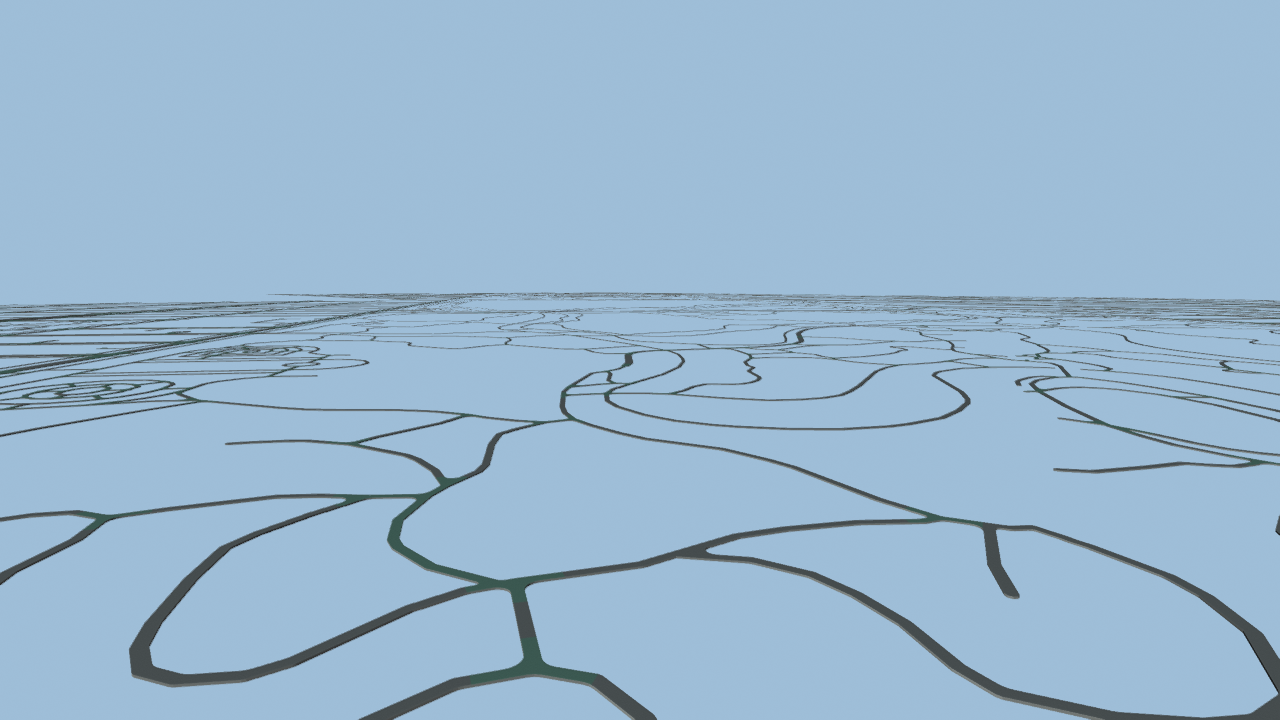
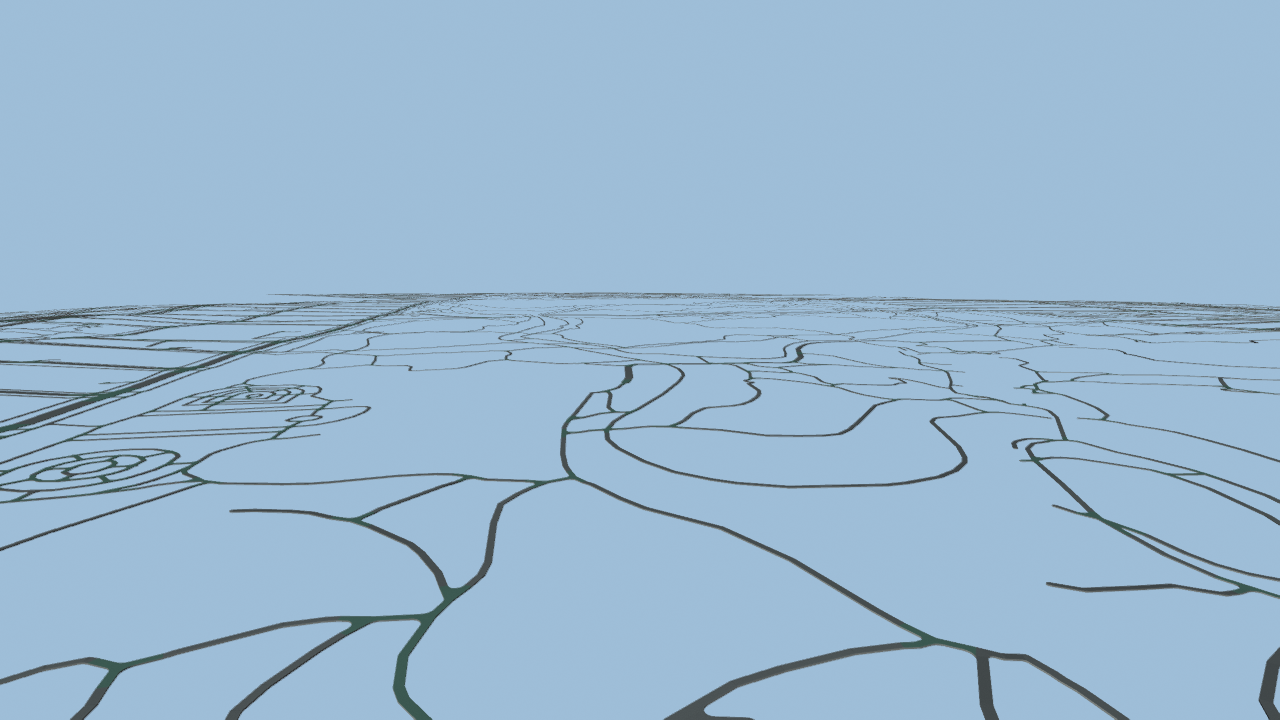
Publish whole-window height comparison and four verified relief shots (#265)

Changed region(s): [[0.0, 0.3972, 1.0, 1.0], [0.125, 0.7944, 0.1562, 0.8556], [0.4688, 0.6722, 0.5, 0.7028]]

diff --git a/test/experiments/transport/camera_height_comparison.md b/test/experiments/transport/camera_height_comparison.md
@@ -1,0 +1,207 @@
+# Shared camera-window bed heights
+
+Owner: [#265](https://github.com/Weichwolf/outshine/issues/265), under #20.
+Experimental numerical/geometry stage; the installable minimax library and native
+runtime remain unchanged. Reusable quadratic fitting still needs its public
+contract/library promotion and source/wheel acceptance; #265 remains active.
+
+## Problem, scope and decision
+
+The supplemental whole-camera transport windows previously used a single flat
+height, although the retained coarse DEM varies substantially. Direct DEM
+vertex draping creates invalid whole-face gradients (Feldkirch up to 45.7).
+Fit shared vertex heights on exactly the same XY/topology, with the established
+anisotropic longitudinal/crossfall constraints. Nearest retained source axes
+direct corridor faces; junction/uncertain faces use the established conservative
+2.5% isotropic recipe. These are procedural constraints, not measured road grades.
+
+Keep the whole existing railway hardware support by fixing **all vertices of all
+bed facets intersecting the complete verified rail-foot/sleeper footprints**.
+Rebuild their coverage union and require full footprint coverage. This is stronger
+than fixing a few contact anchors. The old Vienna C1 and Central Park flat windows
+remain independently reserved; no newly coupled connection between windows is
+claimed. Source usage/classification/IDs and part materials remain unchanged.
+
+Compare the existing public minimax fit with a new lumped-area vertex least-squares
+fit. The minimax objective minimizes maximum vertex deviation; the quadratic
+objective minimizes a weighted sum of squared vertex deviations. Their objectives
+are different; constraints, input targets, fixed contacts and solver budgets are
+identical. Quadratic fitting is the promising next candidate: it produces valid
+whole-window output in all four cases, with lower measured RMS prior error.
+The default minimax API is retained; no global method superiority or optimum is
+claimed. Timing-limited candidates can vary across runs; saved outputs are pinned
+by their actual hashes, and every candidate must pass the same geometry gates.
+
+## Mathematical construction and acceptance
+
+Each triangle has an affine height gradient Gz. Use the same inequalities
+`norm(F G z) <= 1` as the public minimax fit, and fixed contact rows. For normalized
+lumped vertex areas w and centred prior t, the quadratic data are `P=diag(w)` and
+`q=-w*t`. This is mass-lumped vertex quadrature, not the exact integral of a
+continuous DEM residual. No smoothing or C1 term is hidden in the objective.
+
+An incomplete/numerically marginal solver candidate is not accepted as-is.
+Project fixed heights exactly onto their old datum d, then measure the maximum
+normalized whole-face gradient M. The feasible flat reference has zero gradient,
+so `gradient(d + alpha*(z-d)) = alpha*gradient(z)`. Choose
+`alpha=min(1,(1-1e-5)/M)` and independently recheck the resulting mesh. This is an
+explicit geometric contraction, not a relaxed tolerance or optimality argument.
+Feldkirch's first uncontracted quadratic candidate exceeded the unchanged bound
+by about 6e-6 and was rejected; that counterexample motivated this construction.
+
+Acceptance still requires maximum normalized whole-face grade <=1+1e-7 and fixed
+height error <=1e-7 m. The independent saved-output checker uses batched 2×2 linear
+systems, not the producer's gradient implementation, verifies exact original
+XY/face arrays, and reconstructs the union of **actual output facets still at the
+old datum**. Every complete old hardware footprint must lie on that union.
+All four selected quadratic results pass. Solver statuses include Solved,
+AlmostSolved, InsufficientProgress and MaxTime; those statuses alone prove nothing.
+Invalid minimax results publish no mesh; an explicit renderer fallback retains
+the original valid bed and its reason.
+
+## Frozen whole-window results
+
+Fit/preparation/check source: clean `02f1ec181`. Inspection source: clean
+`d05aafe06`; held-out probe source `11942e6e1`. No fit/solver/input mathematical
+implementation changed between these commits. Eight controls cover analytic
+quadratic projection, affine preservation, full-face versus edge limits, whole
+footprint support, partial contacts, pair budgets, thin faces and tiny deadlines.
+The frozen combined controls pass 24 tests; adding affected public height and
+Place controls gives 42 passed tests. Ruff check/format, 120-line function limits
+and `git diff --check` pass. No new package/wheel API is claimed at this stage.
+
+| Place | Vertices / faces | Fixed vertices / facets | Footprints | Flat / quadratic vertex RMS m | Minimax accepted |
+|---|---:|---:|---:|---:|---|
+| Wien | 81092 / 84138 | 578 / 517 | 18993 | 11.663 / 2.088 | yes |
+| Tokyo | 122759 / 128033 | 755 / 652 | 13855 | 13.557 / 3.422 | no |
+| CentralPark | 118702 / 124896 | 49 / 47 | 1846 | 17.928 / 4.231 | no |
+| Feldkirch | 97469 / 99373 | 1319 / 1217 | 25860 | 59.331 / 18.890 | no |
+
+There are no new source omissions. The complete 60554 hardware footprints remain
+supported; every one of 503616 baked hardware vertices is exactly unchanged in the
+final ENU scenes. The old Vienna 191984 and CentralPark 151586 retained display
+vertices remain exactly unchanged. Whole display indices/material slots and fixed
+camera scene parameters/projection/view matrices are byte/value identical to PR260.
+Only the intended supplemental bed heights change.
+
+Four held-out samples per face (centroid and three edge midpoints) are evaluated
+against the **same** retained DEM, identically for flat and all valid objectives.
+They were not solver targets. These are sampled source errors, not whole-DEM
+bounds or surveyed road error; some probes can coincide on shared edges.
+
+| Place | Held-out probes | Flat / quadratic sampled RMS m | Flat / quadratic sampled max m |
+|---|---:|---:|---:|
+| Wien | 336552 | 11.669 / 2.103 | 16.953 / 13.691 |
+| Tokyo | 512132 | 13.538 / 3.424 | 26.953 / 19.409 |
+| CentralPark | 499584 | 17.916 / 4.240 | 30.849 / 22.207 |
+| Feldkirch | 397492 | 59.040 / 18.854 | 248.790 / 104.659 |
+
+On Wien, valid minimax held-out RMS is 2.442 m versus quadratic 2.103 m; their sampled
+maxima are 13.675/13.691 m. Smaller RMS does not mean every error improves. Missing
+terrain exterior and world classes remain missing. All new finite surfaces are
+C0; common C1 ports, bank changes, tier/terrain coupling, rail vertical profiles,
+turnouts, traffic, collision/LOD integration and devices remain separate work.
+
+## Costs and boundaries
+
+Same input per method; Clarabel 0.11.1, NumPy 2.2.4, SciPy 1.18.1, Python 3.13.5;
+BLAS/OMP threads 1. Solver limit 8 s /100 iterations, address space 2 GiB /CPU 60 s per fresh
+worker, 75 s external observation guard. Solver preparation and a step overrun are
+measured outside/alongside the requested time limit. Input caps 131072 vertices,
+160000 faces; fixed-bed queries 64 footprints/batch and 2000000 candidate cap.
+The preparation is shared, not duplicated inside each compared fit phase.
+
+| Place | Minimax wall s / peak child MiB | Quadratic wall s / peak child MiB |
+|---|---:|---:|
+| Wien | 9.215 / 453.7 | 7.813 / 345.8 |
+| Tokyo | 10.115 / 660.5 | 7.912 / 497.3 |
+| CentralPark | 10.017 / 644.0 | 9.915 / 486.6 |
+| Feldkirch | 9.815 / 528.0 | 9.715 / 397.7 |
+
+Feldkirch has three fresh normal workers per method, all independently replayed.
+
+- minimax: 0/3 accepted; median measured fit 9.208 s.
+- least_squares: 3/3 accepted; median measured fit 8.787 s.
+
+The following separate one-call Memray profiles include Python/native allocations
+for the entire fit after imports/input decode: sparse preparation, solver, wrappers,
+projection and whole-face audit. Profiling changes timing-limited iteration
+opportunity, so these are separate cost observations, not the normal timing
+samples. Actual matrices were observed at the Clarabel call without copying them.
+
+| Work/storage | Minimax | Quadratic |
+|---|---:|---:|
+| Constraint rows | 494376 | 299438 |
+| Height/auxiliary columns | 97470 | 97469 |
+| Constraint stored nonzeros | 1285552 | 895676 |
+| Hessian stored nonzeros | 0 | 97469 |
+| Constraint CSC B | 15816508 | 11137992 |
+| Hessian CSC B | 389884 | 1559508 |
+| RHS/objective B | 4734768 | 3175256 |
+| Positive allocation events | 5748830 | 4860553 |
+| Cumulative requested B | 986688163 | 767250412 |
+| Tracked heap peak B | 468836821 | 332454279 |
+
+Memray 1.20.0 with native and Python allocator tracing. Positive realloc requests
+count; cumulative bytes are not unique/live storage. Constraint CSC counts include
+explicit zeros retained by the shared assembly helper. Removing 194938 minimax
+error rows reduces this measured sparse problem; it does not prove a global
+complexity or optimality result. Both methods still process all 99373 face cones.
+
+Known explicit `copy=True` payloads for these Feldkirch wrappers are at least
+6711668 B for minimax input Mesh/grade-frame ownership and 779752 B for the quadratic
+candidate-height ownership copy. These are **partial source-level copy counts**,
+not all transfers or native memcpy totals. The public minimax wrapper constructs
+owned XYZ/indices while the experimental quadratic path returns heights on the
+existing shared XY/indices; this API representation difference contributes to
+costs. Shared input payloads, solver scratch, matrix storage and allocations are
+reported separately. Internal native copy traffic remains unobserved. No native
+runtime/asset load/FPS/GPU/A18 claim follows from this offline comparison.
+
+A minimal supervisor uses `Popen`/`os.wait4` for actual child CPU/RSS/terminal state,
+with before-load snapshots; normal measurement workers keep normal priority.
+Build/render work uses nice10. Direct inherited launcher high-water RSS was not
+used. RSS is per process, not summed OS/GPU memory; profiling heap is a different
+quantity. The full four-place preparation took 14.824 s /185.1 MiB child RSS and is
+outside the fit phases. Final scene preparation took 10.617 s /188.6 MiB; these are
+Python inspection/generation jobs, not prepared native cache loads.
+
+## Pictures, references and reproduction
+
+All four new full fixed-camera PNGs were rendered from the clean accepted outputs
+at 1280×720 using Blender 4.3.2/Workbench, two threads. Each is freshly saved,
+format/dimensions/hash checked, and actually opened against its PR260 predecessor.
+Feldkirch/Tokyo/CentralPark now show coherent coarse relief; Wien's established
+old C1 patch is untouched. Simple studio materials/lighting and absent terrain
+are still explicit research limitations. No close-up or camera adjustment hides
+unresolved geometry. Exactly four gallery PNGs remain under `doc/images/transport/`.
+Before-images are retained under `build/shots/reference/transport/heights-pr260/`
+in both the Transport and main checkouts; current presentations are copied to
+both `build/shots/experiments/transport/places/` directories.
+
+SIGGRAPH first: Chen2008 PDF page2/Fig2 was optically inspected again; Galin2010
+provides the profile/terrain separation. Local papers and primary URLs are in
+`doc/references/transport/README.md`. The quadratic/conic API was checked against
+[Clarabel's official Python formulation](https://clarabel.org/stable/python/getting_started_py/).
+The contraction is the own elementary derivation above, not an imported algorithm
+implementation. No foreign code, new package, ESRI call or SDK runtime dependency.
+
+Reproduction CLI and explicit source/output variables are in [README.md](README.md),
+section #265. `camera_height_dem_check.py --run <comparison-root> --place <Place>
+--dem-sources <retained-cache> --output <fresh-report>` repeats held-out sampling.
+The existing camera products remain at
+`/var/tmp/outshine-transport-place-camera-inputs-209/`; old accepted rail products
+remain at `/tmp/outshine-transport-rail-evidence-e4e9733af/products-source/`.
+Complete fresh preparations, normal/repeat/profile reports, independent checks,
+source/output hashes, load/process records, Memray traces and final scenes remain
+outside the checkout in `/tmp/outshine-transport-camera-heights-evidence-02f1ec181/`.
+All new private work uses root-ext4 `/tmp`, no tmpfs assumption.
+
+### Pinned selected outputs
+
+| Place | Prepared input SHA256 | Selected quadratic mesh SHA256 | PNG SHA256 |
+|---|---|---|---|
[4 lines of base64/hex data omitted]

diff --git a/test/experiments/transport/README.md b/test/experiments/transport/README.md
@@ -954,3 +954,6 @@ Nur neue Kamera-Fenster erhalten ihre geprüften Höhen; unveränderte alte
 Wiener/Central-Park-Produkte bleiben erhalten. Ein explizit ungültiger Fit
 behält das vorherige Bett mit Grund; schmutzige oder fremd gebundene Ergebnisse
 werden nicht dargestellt. Der Standard ohne `--height-products` bleibt eben.
+
+Aktueller eingefrorener Vergleich, Grenzen, Kosten und Bildbelege:
+[camera_height_comparison.md](camera_height_comparison.md).
